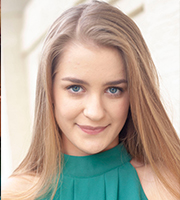
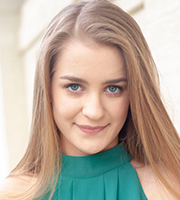
headshots updated (Foshee, Sullivan, Zempel)

diff --git a/2022-23 Programs/Footloose/Footloose.html b/2022-23 Programs/Footloose/Footloose.html
@@ -327,6 +327,7 @@ All lyrics by Dean Pitchford, except; Footloose lyrics by Dean Pitchford and Ken
 	  Viterbo University President</p><!-- Temp End -->
       </div>
 	
+	
 		   </section>
 	
   
@@ -343,12 +344,41 @@ All lyrics by Dean Pitchford, except; Footloose lyrics by Dean Pitchford and Ken
 							<span class="dot"></span>
 							
 				</div>
-				<!-- Temp name="Text" --><p> DIRECTORS NOTE HERE 
+				<!-- Temp name="Text" --><p> <strong>Broken Hearts, Breaking Through, and the Power of “Yes"</strong></p>
  
+                 <p> <em>Footloose </em>the movie broke onto the scene in 1984, not only making Kevin Bacon a household name but capturing audience hearts with a story of youth bumping up against southern small-town culture. Tough family circumstances force Ren McCormack and his mother to make the move from Chicago to conservative Bomont, Texas. It’s a town recovering from its own tragic events, where town leaders hope a ban on rock music and dancing will protect the community.</p>
+ 
+<p>Almost 40 years later, this story of broken hearts and breaking through feels just as fresh. Maybe it’s the theme of survival after tragic loss– or the chance to see what happens when we try to shield ourselves from forces beyond our control. Most of all, <em>Footloose</em> gives us the chance to experience memorable characters saying “yes” to forgiveness and a raucous celebration of life. </p>
+ 
+				<p>Let’s hear it for dancing and the exuberance of youth! And get ready to cut footloose!</p>
+			<p>–Rick Walters
+
 <!-- Temp End --></p>
 			</div>
 		</section>
 	
+
+<section class="text-area">
+			<div class="col-md-12 col-12">
+				<div class="headline">
+							<span class="dot"></span>
+							<span class="dot"></span>
+							<span class="dot"></span>
+					
+							<span class="text-center htext"><!-- Temp name="Title" -->Choreographer's Note<!-- Temp End --></span>
+							<span class="dot"></span>
+							<span class="dot"></span>
+							<span class="dot"></span>
+							
+				</div>
+				<!-- Temp name="Text" --><p> <em>Footloose</em> proves the value of expressing oneself through dance/movement and demonstrates the consequences of what happens when our innate, human desire for self-expression is suppressed. At its core, dance is a vessel for expression and communication. We express what we cannot through words, through dance and movement. For <em>Footloose</em>, the choreography is colloquial, familiar, and at times borders "social dance." By definition, "social dances are intended for participation rather than performance." That idea of "participation versus performance" was at the forefront of the creative process. For the residents of Bomont, dance is what unites and liberates them. The choreography allows room for freedom, self-expression, individuality and playfulness to reflect how movement is utilized in <em>Footloose</em> to emphasize the journey/arc the residents of Bomont experience as a result of Ren’s arrival. In <em>Footloose</em>, we are never dancing just to dance. There is a drive, a desire, and a need to self-express/communicate in a way words cannot for us. <em>Footloose </em>is a reminder of the cultural importance of dance, music, art and expression. </p>
+				<p>				–Tuan Malonowski</p>
+
+				  <!-- Temp End --></p>
+			</div>
+		</section>
+
+
 	<section class="tsection">
                 <div class="container">
 		<div class="headline">
@@ -461,92 +491,73 @@ All lyrics by Dean Pitchford, except; Footloose lyrics by Dean Pitchford and Ken
 			<!-- Temp name="Directors Image" --><!-- Temp End -->
 			     <ul style="list-style: none;">
 				  <li> <!-- Temp name="Note" --><strong>Act I</strong></li>
-			    <li>Scene 1A</li>
-					<li><em>The City of Chicago</em></li><br> 
-					 
+					 <li><strong>Scene 1A:  
+						 The City of Chicago</strong></li>					 
 			    <li><em>Footloose:</em> Rusty, Wendy Jo, Urleen, and Company</li><br>
 					 
-			    <li>Scene 1B</li>
-					 <li><em>The Town of Bomont, in Church</em> </li><br>
-					 
-			    <li><em>On Any Sunday</em> Rev. Shaw Moore, Ren, Ethel and Company</li><br>
+					 <li><strong>Scene 1B: The Town of Bomont, in Church</strong></li>					 
+			    <li><em>On Any Sunday</em>: Rev. Shaw Moore, Ren, Ethel and Company</li><br>
 					 
 				
-				<li>Scene 2</li>
-					 <li><em>The Churchyard</em></li> <br>
+					 <li><strong>Scene 2: The Churchyard</strong></li><br>
 					 
-				<li>Scene 3</li>
-					 <li><em>Behind a Gas Station</em></li> 				 
-			    <li><em>The Girl Gets Around</em>: Chuck, Ariel, Travis and Lyle</li><br>
+					 <li><strong>Scene 3: Behind a Gas Station</strong></li>					  
+			    <li><em>*The Girl Gets Around</em>: Chuck, Ariel, Travis and Lyle</li><br>
 					 
 					 			 
-				<li>Scene 4</li><br>
-					 <li><em>A High School Hallway</em></li> 				 
-			    <li><em>I Can't Stand Still</em>: Ren</li>
+					 <li><strong>Scene 4: A High School Hallway </strong></li>					
+			    <li><em>*I Can't Stand Still</em>: Ren</li>
 				<li><em>Somebody's Eyes</em>: Rusty, Urleen, Wendy Jo and Company</li><br>
 					 
-				<li>Scene 5</li><br>
-					 <li>The Moore Home</li> 				 
-			    <li><em>Learning To Be Silent</em>: Vi, Ethel and Ariel</li>
+					 <li><strong>Scene 5: The Moore Home</strong></li>					 
+			    <li><em>Learning To Be Silent</em>: Vi, Ethel and Ariel</li><br>
 									 
-					 <li>Scene 6</li><br>
-					 <li>The Burger Blast</li> 				 
-			    <li><em>Holding Out For A Hero</em>: Ariel, Rusty, Wendy Jo, and Urleen</li>
+					 <li><strong>Scene 6: The Burger Blast</strong></li>					 
+			    <li><em>Holding Out For A Hero</em>: Ariel, Rusty, Wendy Jo, and Urleen</li><br>
 					 
-					 <li>Scene 7</li>
-					 <li>The Great Plains of Bomont</li> 	 
-				 <li><em>Somebody's Eyes–Scene Change</em>: Rusty, Wendy Jo and Urleen</li>
+					 <li><strong>Scene 7: The Great Plains of Bomont</strong></li>					
+				 <li><em>Somebody's Eyes–Scene Change</em>: Rusty, Wendy Jo and Urleen</li><br>
 					 
-					 <li>Scene 8</li>
-					  <li>The Moore Home</li> 	
+					 <li><strong>Scene 8: The Moore Home</strong></li>				
 				<li><em>Somebody's Eyes–Reprise</em>: Rusty, Wendy Jo, Urleen, Chuck, Lyle, and Travis</li>							 
 				 <li><em>Heaven Help Me</em>: Shaw</li><br>
 					 
-					  <li>Scene 9</li>
-					  <li>The High School Gym/ The Church</li> 	
-				<li><em>I'm Free/ Heaven Help Me</em>: Ren, Shaw, and Company</li>							 
+					 <li><strong>Scene 9: The High School Gym/The Church</strong></li>
+					  <li><em>I'm Free/ Heaven Help Me</em>: Ren, Shaw, and Company</li>	<br>					 
 				
 					  <li><strong>Act II</strong></li>
-			    <li>Scene 1</li>
-					<li><em>The Bar-B-Que, a Country Western Dance Hall</em></li>
-				<li><em>Still Rockin'</em>: Cowboy Bob and His Band</li>		
+					 <li><strong>Scene 1: The Bar-B-Que, a Country Western Dance Hall</strong></li>
+						<li><em>**Still Rockin'</em>: Cowboy Bob and His Band</li>		
 				 <li><em>Let's Hear It For The Boy</em>: Rusty and Company</li><br>
 					 
-					 <li>Scene 2</li>
+					 <li><strong>Scene 2: The Moore Home</strong></li>
 				<li><em>Can You Find It In Your Heart?</em>: Vi</li><br>
 					 
 					 						
-			    <li>Scene 3</li>
-					 <li>The Junk Yard</li>
-				<li><em>Dancing Is Not A Crime</em>: Ren</li>		
-				 <li><em>Mama Says (You Can't Back Down)</em>: Willard, Bickle, Garvin, Jeter and Ren</li>
+					 <li><strong> Scene 3: The Junk Yard</strong></li>
+					<li><em>Dancing Is Not A Crime</em>: Ren</li>		
+				 <li><em>**Mama Says (You Can't Back Down)</em>: Willard, Bickle, Garvin, Jeter and Ren</li>
 				<li><em>Mama Says–Encore</em>: Willard and Boys</li><br>
 					 
-				  <li>Scene 4</li>
-					 <li>Under the Train Bridge</li>
-				<li><em>Almost Paradise</em>: Ren and Ariel</li><br> 
+				  <li><strong>Scene 4: Under the Train Bridge</strong></li>
+					<li><em>Almost Paradise</em>: Ren and Ariel</li><br> 
 					 
-					 <li>Scene 5</li>
-					 <li>The Town Hall</li><br>
+					 <li><strong>Scene 5: The Town Hall</strong></li><br>
+								 
+					 <li><strong>Scene 6: The Moore Home</strong></li>
+						 <li><em>Heaven Help Me–Reprise</em>: Shaw</li><br>
 					 
-					  <li>Scene 6</li>
-					 <li>The Moore Home</li>
-					 <li><em>Heaven Help Me–Reprise</em>: Shaw</li><br>
-					 
-	  				<li>Scene 6A</li>
-					 <li>The Church</li><br>
-					 
-					 
-					 <li>Scene 6B</li>
-					 <li>The Churchyard</li><br>
+	  				 <li><strong>Scene 6A: The Church</strong></li><br>
+									 					 
+					  <li><strong>Scene 6B: The Churchyard</strong></li>			
 					 <li><em>Can You Find It In Your Heart?–Reprise</em>: Shaw</li><br>
 	
 	
-				 <li>Scene 7</li>
-					 <li>The Gym</li><br>
+				  <li><strong>Scene 7: The Gym</strong></li>
 					 <li><em>Footloose–Finale</em>: Company</li><br>
 			 
-				  		  
+				  		  *Student choreographer: Halle Utterback
+					 **Student choregrapher: Payton Harper
 				  
 			    </ul>
 					  <!-- Temp End -->
@@ -604,37 +615,6 @@ All lyrics by Dean Pitchford, except; Footloose lyrics by Dean Pitchford and Ken
 
 		
 		
-		
-		
-		
-		
-		
-		
-			</div>
-
-
-
-
-<div class="col-md-12 col-12 text-area">
-			  <div class="headline">
-							<span class="dot"></span>
-							<span class="dot"></span>
-							<span class="dot"></span>
-							<span class="text-center htext"><!-- Temp name="Title" -->Orchestra<!-- Temp End --></span>
-							<span class="dot"></span>
-							<span class="dot"></span>
-							<span class="dot"></span>
-							
-				</div>
-				<!-- Temp name="Text" -->
-				<p><strong>Keyboard 1/Conductor:</strong> Janette Hanson </p>
-				<p><strong>Keyboard 2:</strong> Matt Salvo </p>
-				<p><strong>Guitar 1:</strong> Paul Leithold</p>
-				<p><strong>Guitar 2:</strong> Kyle Renfro</p>
-				<p><strong>Cello:</strong> Derek Clark</p>
-				<p><strong>Bass:</strong> Troy Birdsong</p>
-				<p><strong>Drums:</strong> Dave Kies</p>
-			
 			</div>
 
 		
@@ -659,15 +639,11 @@ All lyrics by Dean Pitchford, except; Footloose lyrics by Dean Pitchford and Ken
 			<p><strong>Assistant Stage Managers:</strong> Adelaide Young, Courtney Piepenburg</p>
 			<p><strong>Lighting Designer:</strong> Patrick Strain</p>		
 			<p><strong>Sound Engineer/Designer:</strong> Brett Huus</p>
-			<p><strong>Technical Director:</strong> </p>
 			<p><strong>Dance Captain:</strong>: Halle Utterback</p>
 			<p><strong>Scenic Designer:</strong> Jesse Dreikosen</p>
-			<p><strong>Scenic Construction:</strong>  </p>
 			<p><strong>Costume Designer:</strong> Jen Brown</p>
-			<p><strong>Assistant Costume Designer:</strong> </p>
 			<p><strong>Hair and Makeup Designer: </strong> Will Handrick </p>
-			<p><strong>Properties Design/Master: </strong> </p>
-					
+						
 			
 			</div>
 
